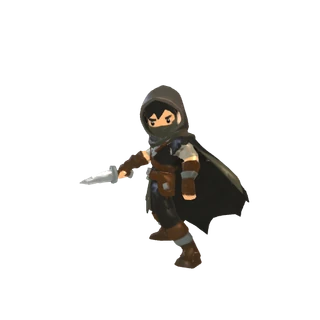
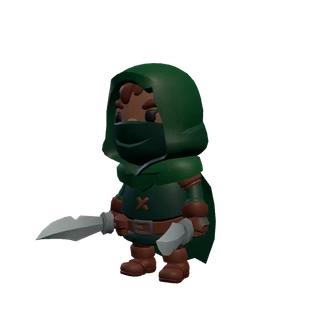
feat(render): rebuild mage and bandit on solid KayKit bodies
Retire the two Meshy auto-rigged bodies (wizard.glb, ashen_raider.glb)
whose locomotion smeared, and redress the solid, hand-animated KayKit
rigs in their place:

- player_mage: the Azure Wizard, rebuilt on mage.glb with a pointed hat,
  cape, azure tint, and a staff. Set apart from the priest (same body)
  by the hat and blue-vs-rose. Now swaps its mainhand like every caster.
- mob_bandit: the humanoid-mob fallback, rebuilt on rogue_hooded.glb
  (matching its reaver/slinger clan) with hood mask, cape, dual daggers,
  and the clan's heavy ash-brown wash.

Restoring the mage onto mage.glb also remaps the shared mage skin
atlases, so its 4-skin set is restored (SKIN_COUNTS.mage 1 to 4) and it
can earn skin-select event cosmetics like every other class.

Regenerate the /wiki guide content and the two changed model stills.
Update the two tests whose assumptions changed (the mage now swaps its
mainhand; the mage is no longer a single-skin class).

Claude-Session: https://claude.ai/code/session_01LLmT7eSCtgCsfReaRCtKmM

Changed region(s): [[0.0938, 0.1875, 0.7812, 0.9062]]

diff --git a/src/render/characters/manifest.ts b/src/render/characters/manifest.ts
@@ -205,35 +205,6 @@ const SPIDER: ClipMap = {
   death: 'Spider_Death', // no hit-react in asset
 };
 
-// Custom Meshy-rigged Growverse character (ashen_raider.glb): the first bespoke
-// 1-of-1 body replacing the stock KayKit outlaw. Clip names are normalized to the
-// canonical set at asset-build time (Meshy Idle_8/Running/Dead/Hit_Reaction ->
-// Idle_02/Run_02/Death/HitRecieve). Locomotion is root-stripped at build so the
-// server-driven mob never slides. The Hooded Rogue export ships the full set
-// including a death fall and a hit-react, so both now resolve to real clips.
-const MESHY_ROGUE: ClipMap = {
-  idle: 'Idle_02',
-  walk: 'Walking',
-  run: 'Run_02',
-  attack: ['Attack'],
-  death: 'Death',
-  hit: ['HitRecieve'],
-};
-
-// Custom Meshy-rigged Growverse player body (wizard.glb): the 1-of-1 "Azure Wizard"
-// replacing the stock KayKit mage. Walking/Running are the Meshy animate export;
-// Idle_02/Attack are grafted from ashen_raider.glb (identical Meshy auto-rig
-// skeleton), so the full clip set was assembled headlessly with zero extra credits.
-// Staff and head are rigidly skinned (no bend/smear). No cast/hit/death clips:
-// death freezes the last pose (baseAction falls back), reading as a dropped body.
-const MESHY_WIZARD: ClipMap = {
-  idle: 'Idle_02',
-  walk: 'Walking',
-  run: 'Running',
-  attack: ['Attack'],
-  death: 'Death', // absent -> baseAction no-ops, corpse holds pose
-};
-
 // Chicken-cow rig (chicken_cow.glb, procedurally authored — see
 // scripts/gen_chicken_cow.mjs). Node-transform animations, no hit-react.
 const CHICKEN_COW: ClipMap = {
@@ -327,9 +298,14 @@ export const SKINS: Record<string, (string | null)[]> = {
     `${SKINS_DIR}/mage/alt_b.png`,
     `${SKINS_DIR}/mage/alt_c.png`,
   ],
-  // The Meshy wizard body ships a single baked texture; the KayKit mage alt skins
-  // do not map to its UVs, so the mage has one canonical 1-of-1 look.
-  player_mage: [null],
+  // Rebuilt on the KayKit mage body (see VISUALS.player_mage), so the shared mage alt
+  // atlases map to its UVs again and the Azure Wizard gets the full selectable skin set.
+  player_mage: [
+    null,
+    `${SKINS_DIR}/mage/alt_a.png`,
+    `${SKINS_DIR}/mage/alt_b.png`,
+    `${SKINS_DIR}/mage/alt_c.png`,
+  ],
   player_warlock: [
     null,
     `${SKINS_DIR}/mage/alt_a.png`,
@@ -454,13 +430,19 @@ export const VISUALS: Record<string, VisualDef> = {
     tintStrength: 0.45,
   },
   player_mage: {
-    // 1-of-1 custom Meshy "Azure Wizard" body: the pointed hat, robe, and staff are
-    // baked into the mesh and rigidly skinned, so there is no KayKit accessory node
-    // (show) or attached weapon. Shares the ashen_raider Meshy rig, so HUMANOID_H and
-    // the facing-0 yaw carry over unchanged. The authored blue is the look (no tint).
-    url: `${PLAYERS}/wizard.glb`,
+    // Azure Wizard, rebuilt on the solid KayKit mage body (clean hand-authored
+    // locomotion, no Meshy smear). Shares mage.glb with the priest, so it is set apart
+    // by a pointed hat + cape and a vivid azure tint (the priest is bare-headed and
+    // rose), and a distinct staff silhouette, so the two casters never read as twins.
+    url: `${PLAYERS}/mage.glb`,
     height: HUMANOID_H,
-    clips: MESHY_WIZARD,
+    clips: kaykit(['2H_Melee_Attack_Chop']),
+    show: ['Mage_Hat', 'Mage_Cape'],
+    attach: [{ url: `${WEAPONS}/staff.glb`, bone: 'handslot.r' }],
+    weaponSlots: [0],
+    // Arcane: vivid azure, the Azure Wizard identity carried onto the solid body
+    tint: 0x3b6fd6,
+    tintStrength: 0.4,
   },
   player_warlock: {
     // Corruption warlock wears the hooded, masked rogue body (same Rig_Medium as
@@ -772,19 +754,23 @@ export const VISUALS: Record<string, VisualDef> = {
   },
 
   // -- humanoid mobs (KayKit adventurers) ------------------------------------
-  // The Ashen Maw knife-fighter, and the global humanoid-mob fallback. This is
-  // the FIRST bespoke Growverse body: a custom Meshy-authored "Shadowbound Rogue"
-  // (ashen_raider.glb) that replaces the stock KayKit hooded outlaw, so the raider
-  // clan is a 1-of-1 asset, not a reskinned pack model. The GLB is a single merged
-  // mesh with the hood, wraps, and dagger baked in, so there is no show-list and no
-  // attach (the blade is part of the body). A dark red-brown wash keeps the hooded
-  // silhouette hostile (faction-green entity tints read as friendly villagers).
+  // The Ashen Maw knife-fighter, and the global humanoid-mob fallback. Rebuilt on the
+  // solid KayKit hooded-outlaw body (rogue_hooded.glb, the same body its reaver and
+  // slinger kin already use), so the whole raider clan shares one clean-animated hooded
+  // silhouette. Hood mask + cape kept; dual daggers attached (the knife role). The heavy
+  // ash-brown wash (0.85, matching the reaver/slinger) darkens the stock KayKit tunic's
+  // forest green; the mask + hood + drawn blade carry the hostile read.
   mob_bandit: {
-    url: `${ENEMIES}/ashen_raider.glb`,
+    url: `${PLAYERS}/rogue_hooded.glb`,
     height: HUMANOID_H,
-    clips: MESHY_ROGUE,
+    clips: kaykit(['Dualwield_Melee_Attack_Chop']),
+    show: ['RogueHooded_Cape', 'RogueHooded_Mask'],
+    attach: [
+      { url: `${WEAPONS}/dagger.glb`, bone: 'handslot.r' },
+      { url: `${WEAPONS}/dagger.glb`, bone: 'handslot.l' },
+    ],
     tint: 0x6b3a32,
-    tintStrength: 0.3,
+    tintStrength: 0.85,
   },
   mob_dark_caster: {
     url: `${PLAYERS}/mage.glb`,

diff --git a/src/guide/content.generated.ts b/src/guide/content.generated.ts
@@ -904,7 +904,8 @@ export const GUIDE_CLASSES: GuideClassInfo[] = [
       }
     ],
     "model": "player_mage",
-    "still": "/guide-stills/player_mage.webp"
+    "tint": "#3b6fd6",
+    "still": "/guide-stills/player_mage__3b6fd6.webp"
   },
   {
     "id": "warlock",
@@ -1906,9 +1907,20 @@ export const GUIDE_MODELS: Record<string, GuideModelSpec> = {
     "tintStrength": 0.45
   },
   "player_mage": {
-    "url": "models/chars/players/wizard.glb",
-    "idle": "Idle_02",
-    "height": 2.6
+    "url": "models/chars/players/mage.glb",
+    "idle": "Idle",
+    "height": 2.6,
+    "show": [
+      "Mage_Hat",
+      "Mage_Cape"
+    ],
+    "attach": [
+      {
+        "url": "models/weapons/staff.glb",
+        "bone": "handslot.r"
+      }
+    ],
+    "tintStrength": 0.4
   },
   "player_warlock": {
     "url": "models/chars/players/rogue_hooded.glb",
@@ -1986,10 +1998,24 @@ export const GUIDE_MODELS: Record<string, GuideModelSpec> = {
     "tintStrength": 0.2
   },
   "mob_bandit": {
-    "url": "models/chars/enemies/ashen_raider.glb",
-    "idle": "Idle_02",
+    "url": "models/chars/players/rogue_hooded.glb",
+    "idle": "Idle",
     "height": 2.6,
-    "tintStrength": 0.3
+    "show": [
+      "RogueHooded_Cape",
+      "RogueHooded_Mask"
+    ],
+    "attach": [
+      {
+        "url": "models/weapons/dagger.glb",
+        "bone": "handslot.r"
+      },
+      {
+        "url": "models/weapons/dagger.glb",
+        "bone": "handslot.l"
+      }
+    ],
+    "tintStrength": 0.85
   },
   "mob_bruiser": {
     "url": "models/chars/players/rogue_hooded.glb",

diff --git a/tests/held_weapon_models.test.ts b/tests/held_weapon_models.test.ts
@@ -57,11 +57,10 @@ describe('held weapon models', () => {
   });
 
   // Every player class swaps its held mainhand to the equipped weapon, EXCEPT the
-  // hunter (keeps its crossbow) and the mage (its staff is baked into the 1-of-1
-  // Meshy body), regardless of the melee weapon equipped. The cosmetic Combat Mech
-  // (player_mech) is class-agnostic but is included: it still shows the wearer's
-  // equipped mainhand, like every other body.
-  it('all player classes swap the mainhand except the hunter and mage', () => {
+  // hunter (keeps its crossbow), regardless of the melee weapon equipped. The cosmetic
+  // Combat Mech (player_mech) is class-agnostic but is included: it still shows the
+  // wearer's equipped mainhand, like every other body.
+  it('all player classes swap the mainhand except the hunter', () => {
     const players = Object.keys(VISUALS).filter((k) => k.startsWith('player_'));
     expect(players).toContain('player_hunter');
     expect(players).toContain('player_mech');
@@ -69,8 +68,6 @@ describe('held weapon models', () => {
       const def = VISUALS[key];
       if (key === 'player_hunter') {
         expect(def.weaponSlots, 'hunter must keep its crossbow').toBeUndefined();
-      } else if (key === 'player_mage') {
-        expect(def.weaponSlots, 'mage keeps its baked-in staff').toBeUndefined();
       } else {
         expect(def.weaponSlots?.includes(0), `${key} should swap its mainhand`).toBe(true);
       }

diff --git a/tests/skin_event.test.ts b/tests/skin_event.test.ts
@@ -71,8 +71,7 @@ describe('cosmetic skin-select event', () => {
   });
 
   it('locks in an in-rank skin: applies it, consumes the token, clears the pending rank', () => {
-    // Warrior has the full alt-skin catalog; the mage is the 1-of-1 look (SKIN_COUNTS.mage=1)
-    // and cannot receive event alt skins, so the lock-in mechanic is exercised on warrior.
+    // Warrior has the full alt-skin catalog, so the lock-in mechanic is exercised on it.
     const { sim, rank } = rollRank(1, 'warrior');
     const skin = EVENT_SKIN_TIERS[0].skin; // lowest tier, allowed by every rank
     expect(rankAllowsSkin(rank, skin)).toBe(true);

diff --git a/src/sim/content/skins.ts b/src/sim/content/skins.ts
@@ -124,7 +124,7 @@ export const SKIN_COUNTS: Record<PlayerClass, number> = {
   hunter: 4,
   rogue: 4,
   priest: 4,
-  mage: 1,
+  mage: 4,
   warlock: 4,
   shaman: 4,
   druid: 4,
